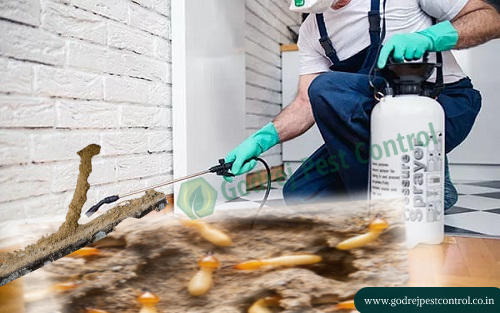
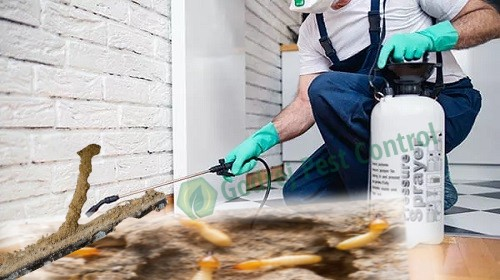
service image changes

diff --git a/src/app/services/page.tsx b/src/app/services/page.tsx
@@ -11,7 +11,7 @@ const services = [
     title: "Termite Control",
     description:
       "Protect the foundation, furniture, and wooden structures from costly termite damage. Our advanced, eco-safe solutions eliminate termite colonies and prevent recurrence.\n\nWe also provide preventive soil and wood treatment plans to stop future infestations before they start.",
-    image: "/services/termite.jpg",
+    image: "/services/termite.webp",
   },
   {
     title: "Mosquito Control",
@@ -35,7 +35,7 @@ const services = [
     title: "Bed Bug Treatment",
     description:
       "We use heat and non-toxic sprays to eradicate bed bugs from mattresses, sofas, and fabrics. Enjoy a peaceful, itch-free sleep and complete comfort.\n\nWe also provide follow-up inspections to ensure zero bed bug recurrence and full peace of mind.",
-    image: "/services/bed-bug.webp",
+    image: "/services/bed-bug.jpg",
   },
 ];
 

diff --git a/src/components/Footer.tsx b/src/components/Footer.tsx
@@ -7,7 +7,7 @@ import { Facebook, Instagram, Twitter, Phone, Mail, MapPin } from "lucide-react"
 export default function Footer() {
   return (
     <footer className="bg-emerald-700 text-white">
-      <div className="container mx-auto px-6 py-10 grid gap-8 md:grid-cols-3">
+      <div className="container mx-auto px-6 py-10 grid gap-8 md:grid-cols-3 items-start">
         {/* Company Info */}
         <div>
           <h2 className="text-lg font-semibold mb-3">Metro Pest Management Services</h2>
@@ -67,7 +67,7 @@ export default function Footer() {
       </div>
 
       <Separator className="bg-emerald-600" />
-      
+
       <div className="text-center pt-2 pb-0.5 text-sm text-emerald-100">
         © {new Date().getFullYear()} Metro Pest Management Services. All rights reserved.
       </div>
